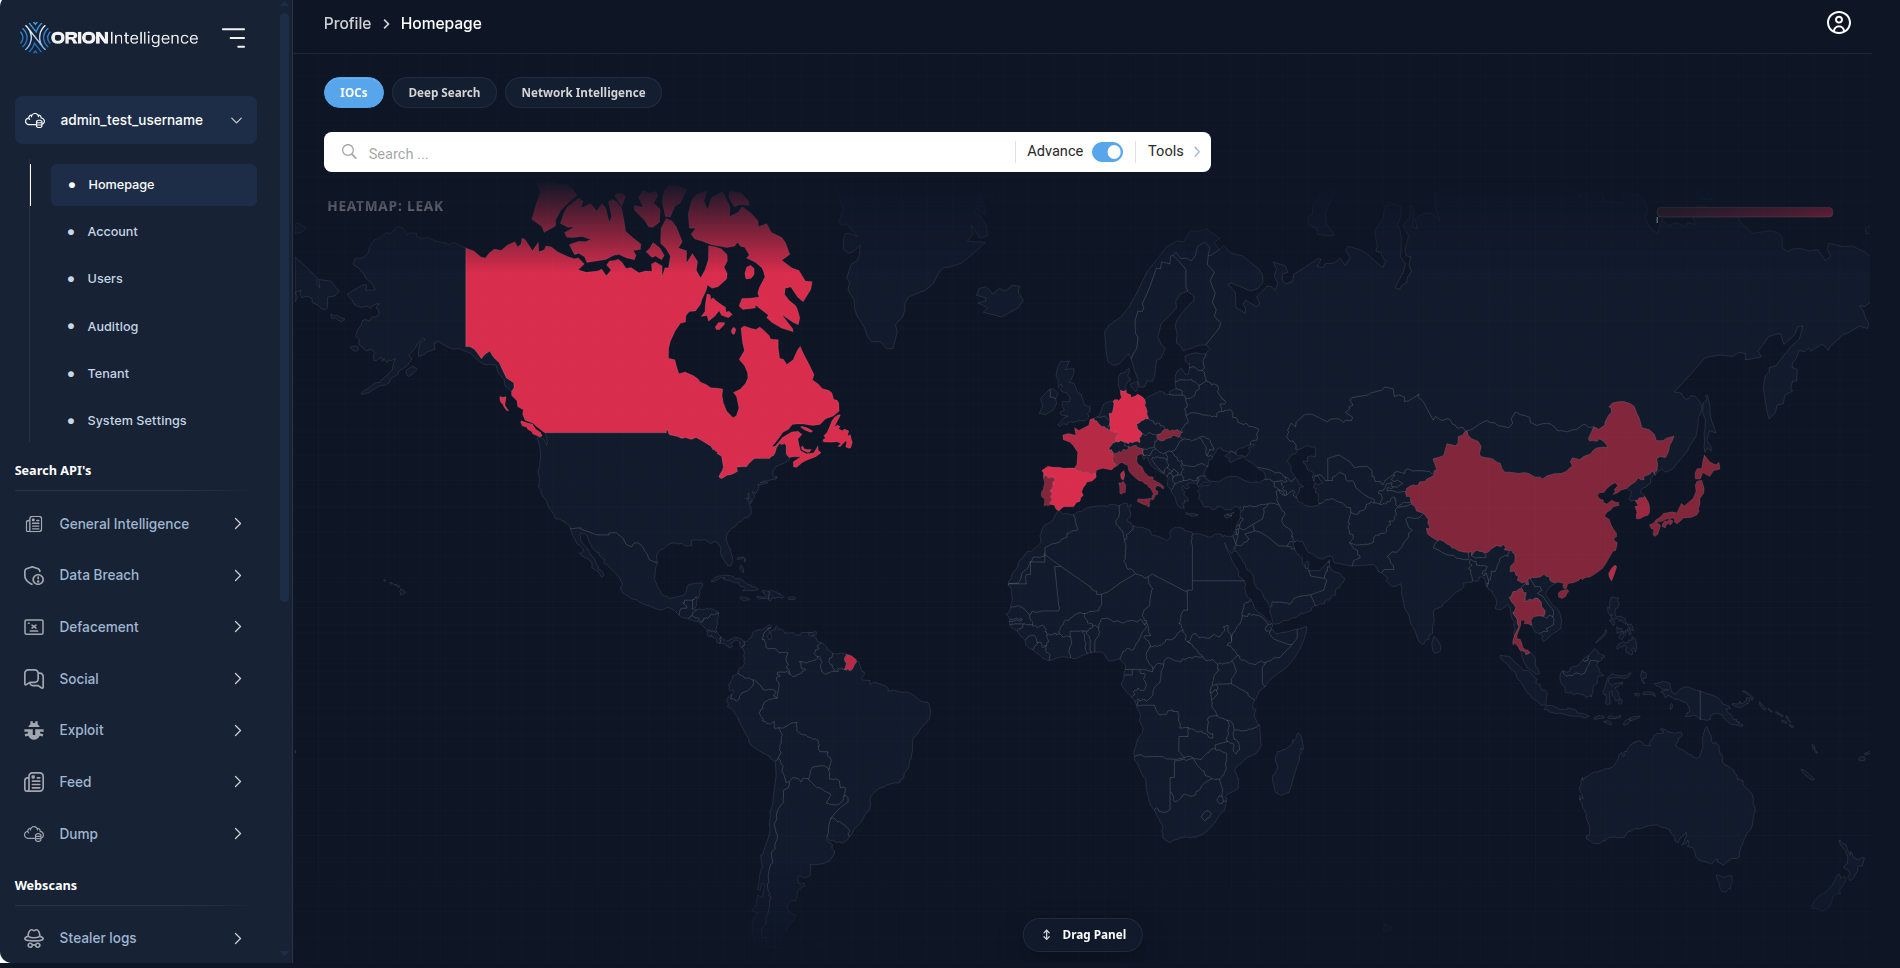
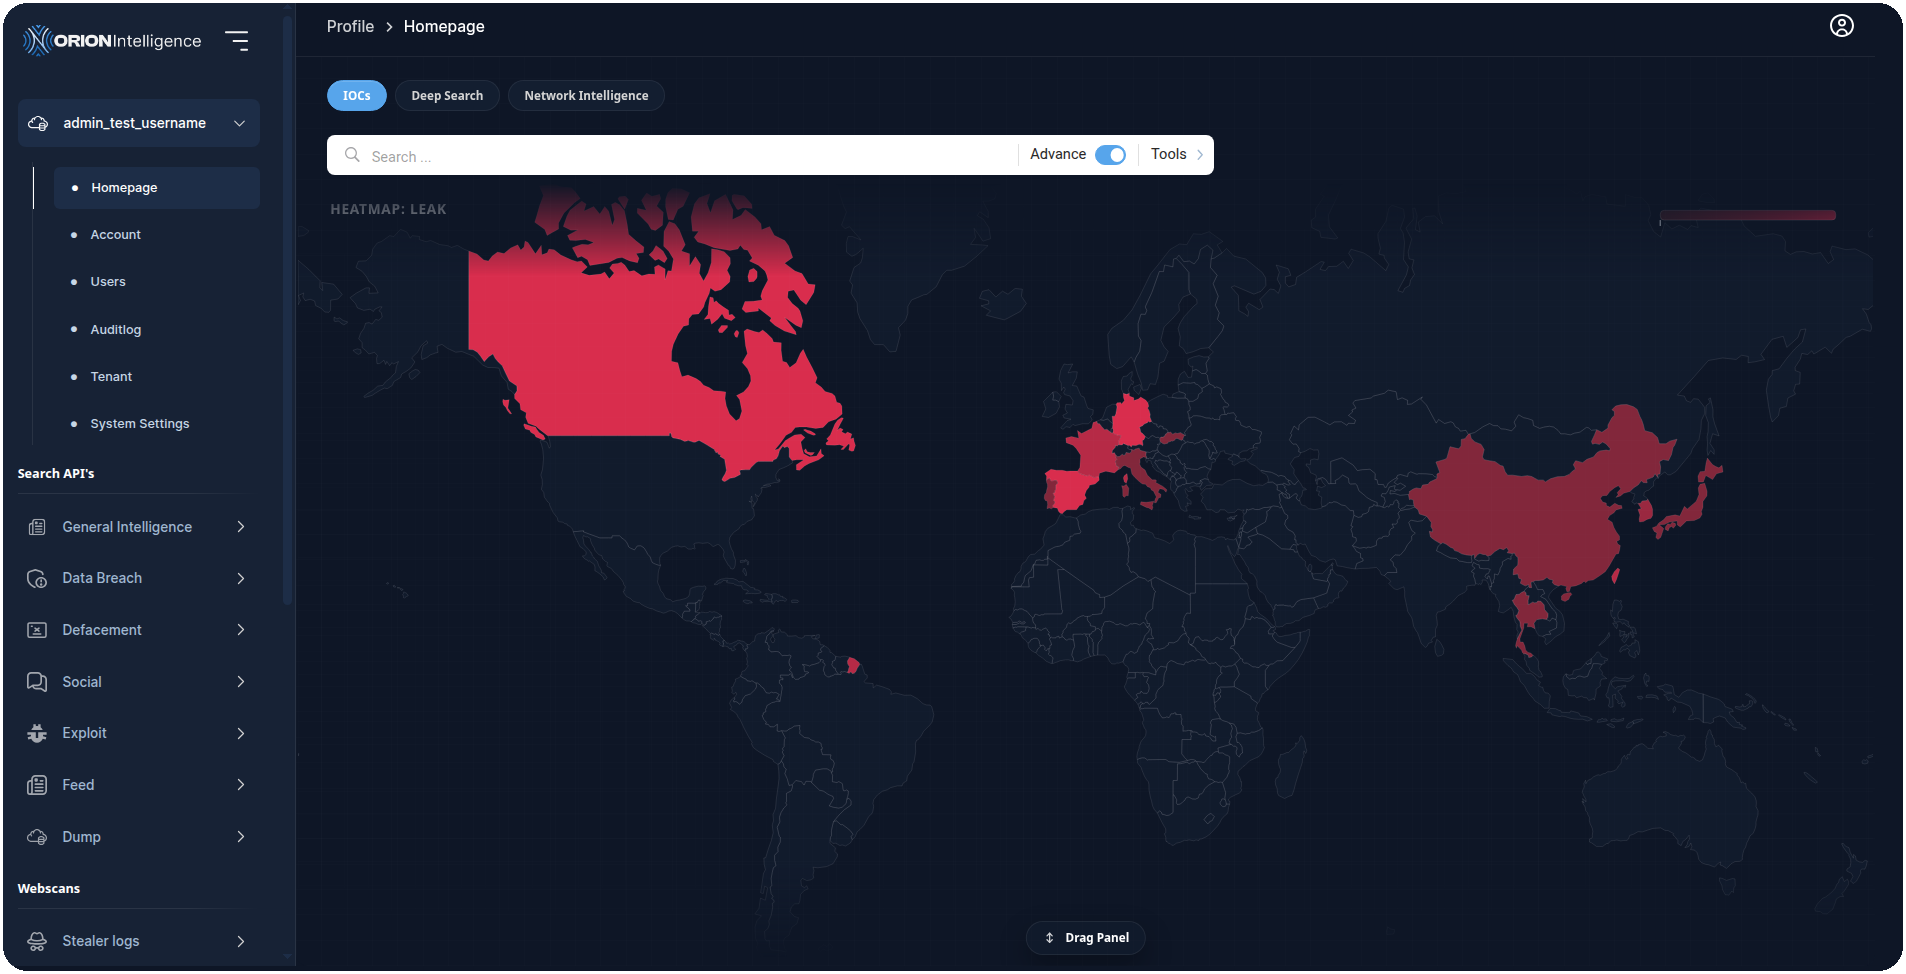
fix

diff --git a/README.md b/README.md
@@ -40,7 +40,7 @@ actionable insights.<br>
 The Orion homepage provides a search-first investigation workspace with summary panels, recent findings, and
 visual pivots that help analysts move quickly from overview to deeper investigation.
 
-<img src="README-assets/homepage-overview-readme.png" alt="Homepage Overview" style="border-radius: 18px; border: 2.5px solid white;" />
+<img src="README-assets/homepage-overview-readme.png" alt="Homepage Overview" />
 
 ## Getting Started
 
